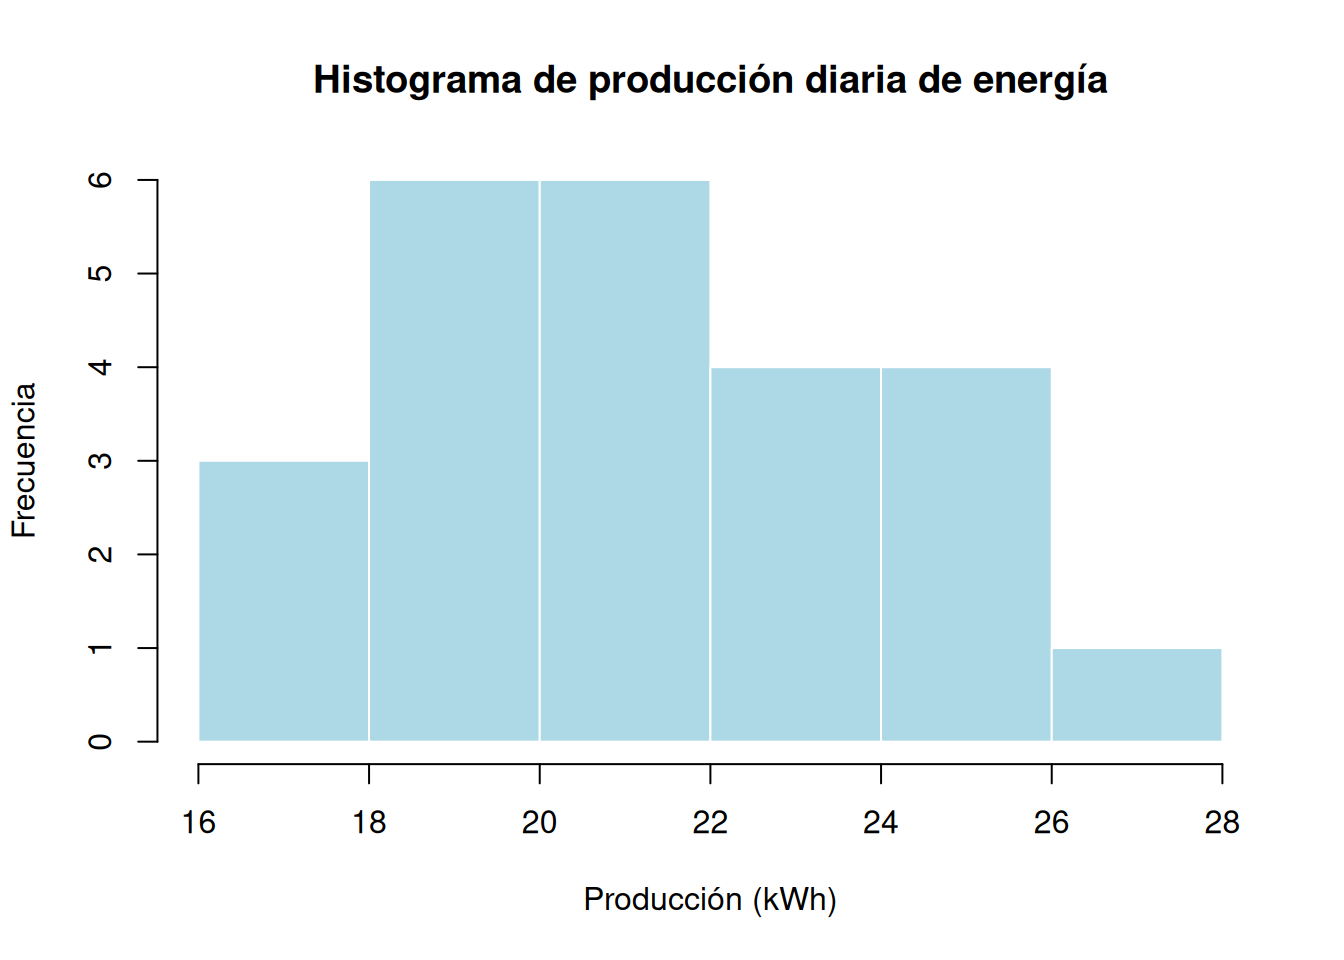
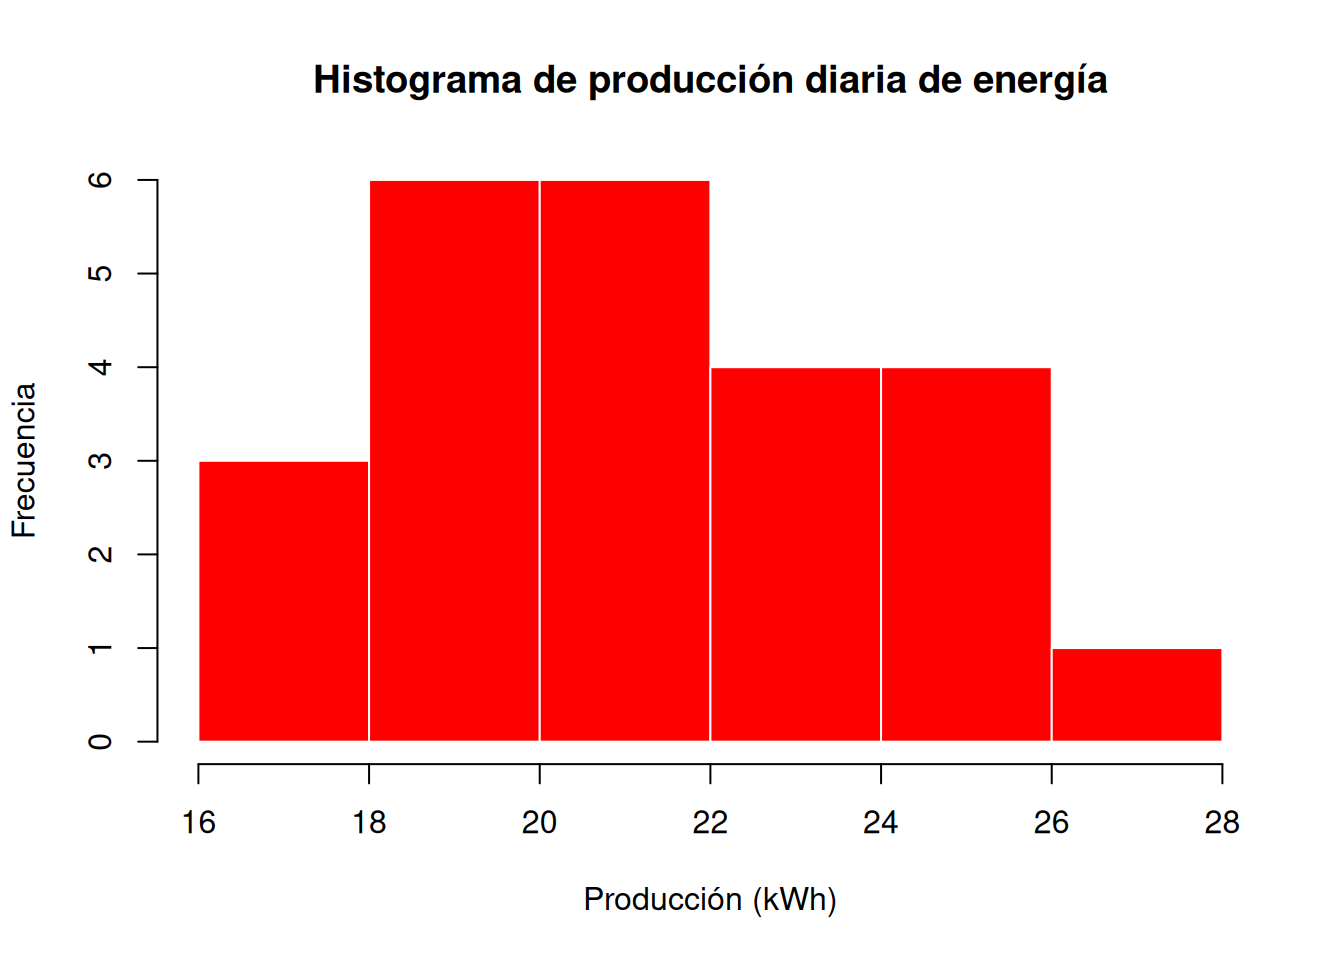
Se termina bloque 1 por fin

Changed region(s): [[0.125, 0.1875, 0.9062, 0.7812]]

diff --git a/docs/representación-gráfica-de-datos.html b/docs/representación-gráfica-de-datos.html
@@ -20,7 +20,7 @@
   
   
 
-<meta name="author" content="Ing. Jaime Rojas C, Mgtr." />
+<meta name="author" content="Ing. Jaime Rojas Coronel, Mgtr." />
 
 
 <meta name="date" content="2026-03-20" />
@@ -347,7 +347,7 @@ F_i = \sum_{j=1}^{i} f_j
 <div id="histograma-1" class="section level3 hasAnchor" number="3.3.1">
 <h3><span class="header-section-number">3.3.1</span> Histograma<a href="representación-gráfica-de-datos.html#histograma-1" class="anchor-section" aria-label="Anchor link to header"></a></h3>
 <div class="sourceCode" id="cb22"><pre class="sourceCode r"><code class="sourceCode r"><span id="cb22-1"><a href="representación-gráfica-de-datos.html#cb22-1" tabindex="-1"></a><span class="fu">hist</span>(energia,</span>
-<span id="cb22-2"><a href="representación-gráfica-de-datos.html#cb22-2" tabindex="-1"></a>     <span class="at">col =</span> <span class="st">&quot;lightblue&quot;</span>,</span>
+<span id="cb22-2"><a href="representación-gráfica-de-datos.html#cb22-2" tabindex="-1"></a>     <span class="at">col =</span> <span class="st">&quot;red&quot;</span>,</span>
 <span id="cb22-3"><a href="representación-gráfica-de-datos.html#cb22-3" tabindex="-1"></a>     <span class="at">main =</span> <span class="st">&quot;Histograma de producción diaria de energía&quot;</span>,</span>
 <span id="cb22-4"><a href="representación-gráfica-de-datos.html#cb22-4" tabindex="-1"></a>     <span class="at">xlab =</span> <span class="st">&quot;Producción (kWh)&quot;</span>,</span>
 <span id="cb22-5"><a href="representación-gráfica-de-datos.html#cb22-5" tabindex="-1"></a>     <span class="at">ylab =</span> <span class="st">&quot;Frecuencia&quot;</span>,</span>

diff --git a/docs/index.html b/docs/index.html
@@ -20,7 +20,7 @@
   
   
 
-<meta name="author" content="Ing. Jaime Rojas C, Mgtr." />
+<meta name="author" content="Ing. Jaime Rojas Coronel, Mgtr." />
 
 
 <meta name="date" content="2026-03-20" />
@@ -302,7 +302,7 @@ code span.wa { color: #60a0b0; font-weight: bold; font-style: italic; } /* Warni
             <section class="normal" id="section-">
 <div id="header">
 <h1 class="title">Estadística Aplicada para Ingeniería</h1>
-<p class="author"><em>Ing. Jaime Rojas C, Mgtr.</em></p>
+<p class="author"><em>Ing. Jaime Rojas Coronel, Mgtr.</em></p>
 <p class="date"><em>2026-03-20</em></p>
 </div>
 <div id="portada" class="section level1 unnumbered hasAnchor">

diff --git a/docs/404.html b/docs/404.html
@@ -20,7 +20,7 @@
   
   
 
-<meta name="author" content="Ing. Jaime Rojas C, Mgtr." />
+<meta name="author" content="Ing. Jaime Rojas Coronel, Mgtr." />
 
 
 <meta name="date" content="2026-03-20" />

diff --git a/docs/datos-y-tablas-de-frecuencia.html b/docs/datos-y-tablas-de-frecuencia.html
@@ -20,7 +20,7 @@
   
   
 
-<meta name="author" content="Ing. Jaime Rojas C, Mgtr." />
+<meta name="author" content="Ing. Jaime Rojas Coronel, Mgtr." />
 
 
 <meta name="date" content="2026-03-20" />

diff --git a/docs/introducción-al-análisis-descriptivo-de-datos.html b/docs/introducción-al-análisis-descriptivo-de-datos.html
@@ -20,7 +20,7 @@
   
   
 
-<meta name="author" content="Ing. Jaime Rojas C, Mgtr." />
+<meta name="author" content="Ing. Jaime Rojas Coronel, Mgtr." />
 
 
 <meta name="date" content="2026-03-20" />

diff --git a/docs/medidas-de-asociación.html b/docs/medidas-de-asociación.html
@@ -20,7 +20,7 @@
   
   
 
-<meta name="author" content="Ing. Jaime Rojas C, Mgtr." />
+<meta name="author" content="Ing. Jaime Rojas Coronel, Mgtr." />
 
 
 <meta name="date" content="2026-03-20" />

diff --git a/docs/medidas-de-dispersión-y-forma.html b/docs/medidas-de-dispersión-y-forma.html
@@ -20,7 +20,7 @@
   
   
 
-<meta name="author" content="Ing. Jaime Rojas C, Mgtr." />
+<meta name="author" content="Ing. Jaime Rojas Coronel, Mgtr." />
 
 
 <meta name="date" content="2026-03-20" />

diff --git a/docs/medidas-de-tendencia-central-y-de-posición.html b/docs/medidas-de-tendencia-central-y-de-posición.html
@@ -20,7 +20,7 @@
   
   
 
-<meta name="author" content="Ing. Jaime Rojas C, Mgtr." />
+<meta name="author" content="Ing. Jaime Rojas Coronel, Mgtr." />
 
 
 <meta name="date" content="2026-03-20" />

diff --git a/docs/muestras-población-y-muestreo.html b/docs/muestras-población-y-muestreo.html
@@ -20,7 +20,7 @@
   
   
 
-<meta name="author" content="Ing. Jaime Rojas C, Mgtr." />
+<meta name="author" content="Ing. Jaime Rojas Coronel, Mgtr." />
 
 
 <meta name="date" content="2026-03-20" />

diff --git a/docs/presentación.html b/docs/presentación.html
@@ -20,7 +20,7 @@
   
   
 
-<meta name="author" content="Ing. Jaime Rojas C, Mgtr." />
+<meta name="author" content="Ing. Jaime Rojas Coronel, Mgtr." />
 
 
 <meta name="date" content="2026-03-20" />
